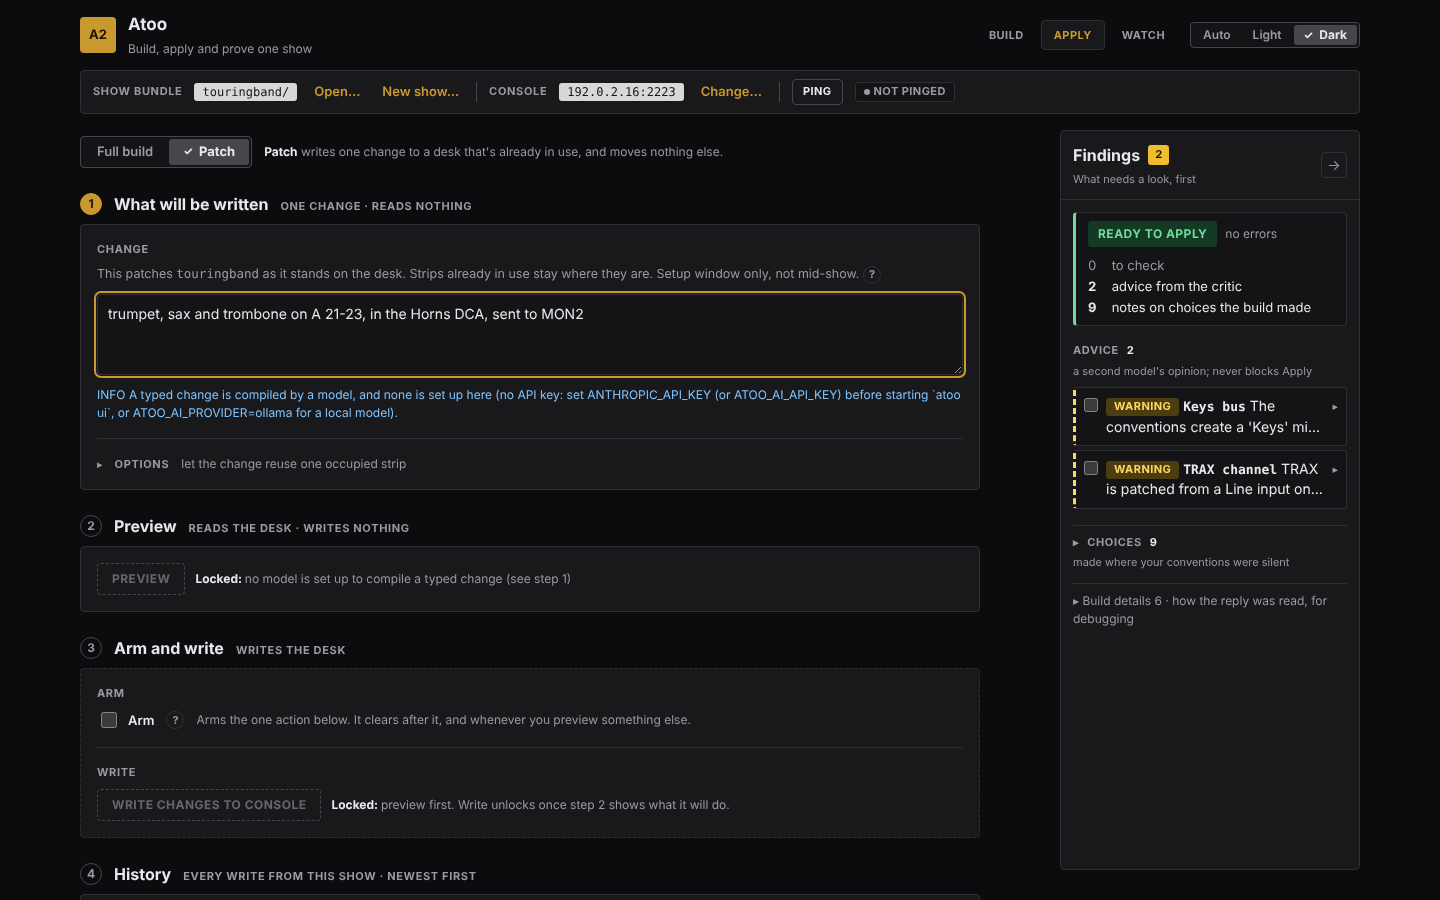
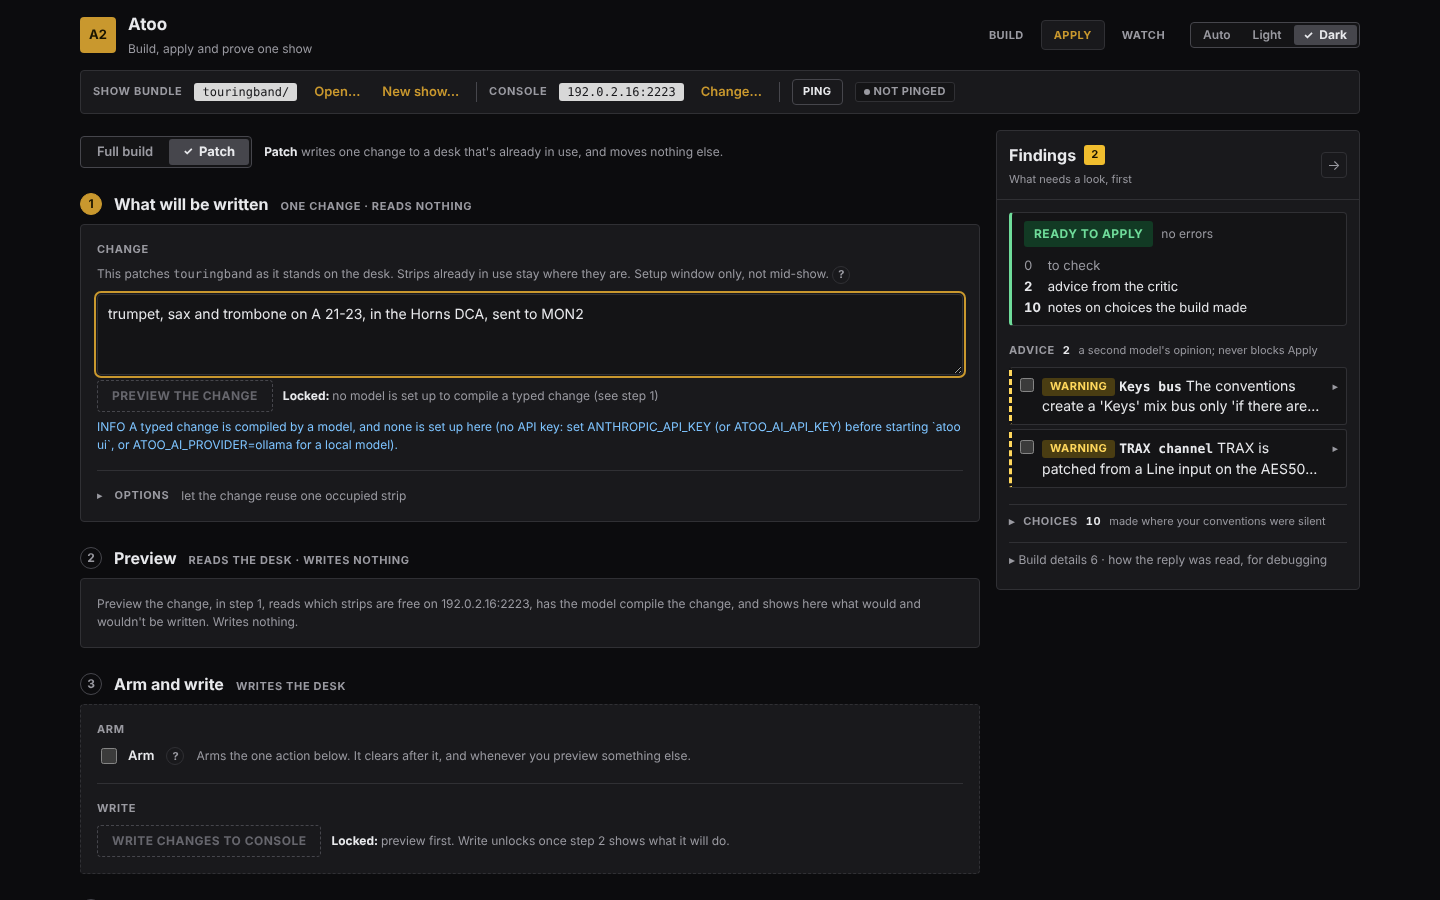
Docs: refresh the user guide

diff --git a/docs/user/patch.md b/docs/user/patch.md
@@ -40,6 +40,16 @@ atoo patch --show starter/demo-show --change-set docs/user/demo/demo-show/horns.
 
 Change: Add Trumpet, Sax and Trombone on LCL 21-23
   INFO preset library: starter/presets -- the library the plan on the desk was built with (its strips' preset values record it)
+
+What this change does on the desk:
+  added channel 'Trumpet' -> ch:14
+  added channel 'Sax' -> ch:15
+  added channel 'Trombone' -> ch:16
+  added bus 'Horns' -> bus:8
+
+379 address(es) will be written.
+
+Details:
 48 strip(s) read over 206 address(es): 14 ours, 0 theirs, 34 free, 0 unknown
   this read asked each strip for its name, its link-to-source flag and its input patch, and asked every patched socket for ITS name -- which on a WING is where a name somebody typed actually lives. It did not ask what anything is routed to, so a strip that is routed somewhere but neither named nor patched reads as free here. `atoo audit` asks the rest.
 
@@ -67,6 +77,8 @@ Change: Add Trumpet, Sax and Trombone on LCL 21-23
 Pre-flight verify of the changed plan against the WING Compact the plan is for (reviewed offline: no desk was asked): no findings.
   ...
 ```
+
+The review leads with **What this change does on the desk**: one line for each object the change adds, drops, moves or edits, in words, each object once. An output's or a bus's sockets are said whole, before and after, with what goes off named (*"output 'Matrix 1': out on LCL 7-8, AES50-A 1-2 -> LCL 7-8 (AES50-A 1-2 off)"*). Then how many addresses will be written, and, when the change moves audio on something already running, one `!!` line that says so. Everything else follows under **Details:**: what was read off the desk, each object's verdict, the fields old -> new, the notes, the addresses, and the pre-flight.
 
 The pre-flight reads the show's `input.csv`, so the check that every input became a channel, that phantom power is safe for the microphones and that the list's stated sockets and presets match runs on the changed plan, and the INFO line says what it was checked against. A change is not a rebuild, so it is held to the list differently from a full build: the channels it adds (and any that an earlier change added) are not on the list and are not called invented, a row the plan has no channel for is not called dropped, and a socket the change states for a channel stands over the one the list states. A show with no `input.csv` still gets the `reconcile.not-checked` warning.
 
@@ -223,6 +235,23 @@ atoo patch --show starter/demo-show --change-set docs/user/demo/demo-show/clear-
 
 Change: Clear 5 and 6, add stereo IEM
   INFO preset library: starter/presets -- the library the plan on the desk was built with (its strips' preset values record it)
+
+What this change does on the desk:
+  returned to free bus 'Drums' -> bus:5
+  returned to free bus 'Vocals' -> bus:6
+  added bus 'IEM' -> bus:5
+  channel 'Kick': bus_sends: Drums removed
+  channel 'Snare': bus_sends: Drums removed
+  channel 'Rack Tom': bus_sends: Drums removed
+  channel 'Floor Tom': bus_sends: Drums removed
+  channel 'OH': bus_sends: Drums removed
+  channel 'Lead Vox': bus_sends: Vocals removed
+  channel 'BV Gtr': bus_sends: Vocals removed
+  channel 'BV Keys': bus_sends: Vocals removed
+
+342 address(es) will be written.
+
+Details:
 48 strip(s) read over 206 address(es): 14 ours, 0 theirs, 34 free, 0 unknown
   this read asked each strip for its name, its link-to-source flag and its input patch, and asked every patched socket for ITS name -- which on a WING is where a name somebody typed actually lives. It did not ask what anything is routed to, so a strip that is routed somewhere but neither named nor patched reads as free here. `atoo audit` asks the rest.
   ...
@@ -240,7 +269,7 @@ The review's lines for the buses (the summary's first lines, then the INFOs that
   INFO bus 'IEM' is new, put on bus 5 as the change said -- the bus this change returns to free
 ```
 
-Below what is shown, eight `EDITED` lines name the channels whose send into bus 5 or 6 is taken away (`bus_sends: Drums removed`). Nothing here asks the model; whether a given model words *"clear bus 5"* as a drop is the model's part, and the review above is what it is checked against before anything is written.
+The summary at the top names the eight channels whose send into bus 5 or 6 is taken away (`bus_sends: Drums removed`). Nothing here asks the model; whether a given model words *"clear bus 5"* as a drop is the model's part, and the review above is what it is checked against before anything is written.
 
 ## Clearing a DCA, a mute group or an output
 
@@ -263,6 +292,16 @@ atoo patch --show starter/demo-show --change-set docs/user/demo/demo-show/clear-
 
 Change: Drop FX groups, add Horns DCA
   INFO preset library: starter/presets -- the library the plan on the desk was built with (its strips' preset values record it)
+
+What this change does on the desk:
+  returned to free dca 'FX' -> dca:5
+  returned to free mute group 'FX' -> mgrp:3
+  added dca 'Horns' -> dca:5
+  bus 'Vox Verb': dca FX -> none; mute_group FX -> none
+
+10 address(es) will be written.
+
+Details:
 48 strip(s) read over 206 address(es): 14 ours, 0 theirs, 34 free, 0 unknown
   this read asked each strip for its name, its link-to-source flag and its input patch, and asked every patched socket for ITS name -- which on a WING is where a name somebody typed actually lives. It did not ask what anything is routed to, so a strip that is routed somewhere but neither named nor patched reads as free here. `atoo audit` asks the rest.
 
@@ -272,12 +311,12 @@ Change: Drop FX groups, add Horns DCA
   ADDED            dca 'Horns' -> dca:5: new dca
   EDITED           bus 'Vox Verb': only the field(s) the change names are written (dca, mute_group); nothing else on this bus is touched, and the rest of it is in the untouched proof
   fields changed on objects already on the desk (only these; nothing else on them is written):
-    bus 'Vox Verb': dca ["FX"] -> []
-    bus 'Vox Verb': mute_group ["FX"] -> []
+    bus 'Vox Verb': dca FX -> none
+    bus 'Vox Verb': mute_group FX -> none
   ...
 ```
 
-Below what is shown, the `EDITED` line names the Vox Verb bus, the one member of both FX groups, so it is the one strip edited: its tags go to none.
+The summary's last line, and the `EDITED` line under Details, name the Vox Verb bus, the one member of both FX groups, so it is the one strip edited: its tags go to none.
 
 ## Inserting a channel, and renumbering the strips after it
 
@@ -345,17 +384,21 @@ A change may also change something **already on the desk** — *"move the sax to
   ```
   REFUSED          channel 'Snare' -> ch:2: the change edits it, and 'Royer R-121' is a passive ribbon microphone and the change leaves it with phantom power on -- 48V destroys a ribbon element and switching it off again does not undo the damage; set source.phantom false in the same change -- refused rather than half-written
   ```
-- **The review shows old -> new for every field**, as an `EDITED` line, in the "fields changed" block of the summary, and at INFO: `ch:9: the change edits bus_sends: MON3 level -144 -> -10.0`.
+- **The review says each edited object once, in words**, at the top (`channel 'T.Sax SM57': bus_sends: MON3 level -144 -> -10.0`), and under Details each field old -> new, as an `EDITED` line and in the "fields changed" block.
 - **A fader moves only when the change says "fader"** (and a mute only when it says "mute" — "mute group" is a membership, not the mute). A fader the model set anyway is shown as `MODIFIED`, not written.
-- **A repatch of a running strip moves audio the moment it is written**, so it is said first, on its own (from Atoo's test desk and a stubbed model):
+- **A repatch of a running strip moves audio the moment it is written**, so it is said at the top, once, under the line that says what changes (from Atoo's test desk and a stubbed model):
 
   ```
-  !! 1 PATCH CHANGE(S) ON SOMETHING ALREADY RUNNING -- these move audio the moment they are written:
-  !!   MOVES AUDIO LIVE -- channel 'BassDI' on ch:7: patch A 6 -> A 30
+  What this change does on the desk:
+    channel 'BassDI': patch A 6 -> A 30
+
+  5 address(es) will be written.
+  !! It moves audio on channel 'BassDI', already running, the moment it is written: check what is plugged in where before you arm it.
   ```
 
   The new socket's own name, color, phantom and gain are written with it — unless another strip on the desk uses that socket, when they are that strip's and are left alone, with a note. The old socket keeps its name.
-- **Taking something away is written as off**: a send the change removes is switched off, a high-pass it removes is switched off, and a strip that leaves every DCA and mute group has those tags cleared (other tags kept).
+- **Taking something away is written as off**: a send the change removes is switched off, a high-pass it removes is switched off, and a strip that leaves every DCA and mute group has those tags cleared (other tags kept). An output socket taken off a bus, a Main or a Matrix (*"remove all the AES50-A outputs"*) is switched off on the desk, its source set to OFF (never back to a local output's factory feed from the Main); the object's other sockets stay as they are, and an object left with none stays, with no output.
+- **A change that only removes adds nothing.** Typed as a removal (*"remove"*, *"delete"*, *"clear"*, *"unpatch"*, *"disconnect"*, *"take off"*), with no word that puts something somewhere, it keeps no socket the object did not already have: one the model added is left off, and an INFO says which. An object that went out on two places keeps the other one: that is not a new socket.
 - **An edit that would rewrite another object is refused.** Patching a running strip onto a socket another running strip uses turns that other strip's source link off too — and that strip is not named, so the change is refused.
 - **Undo puts every edited field back**: the journal records each address's value before the write, as it does for every write.
 
@@ -372,6 +415,13 @@ atoo patch --show starter/demo-show --change-set docs/user/demo/demo-show/snare-
 
 Change: Snare Verb on the Vox Verb bus
   INFO preset library: starter/presets -- the library the plan on the desk was built with (its strips' preset values record it)
+
+What this change does on the desk:
+  bus 'Vox Verb': preset Vox Verb -> Snare Verb
+
+12 address(es) will be written.
+
+Details:
 48 strip(s) read over 206 address(es): 14 ours, 0 theirs, 34 free, 0 unknown
   this read asked each strip for its name, its link-to-source flag and its input patch, and asked every patched socket for ITS name -- which on a WING is where a name somebody typed actually lives. It did not ask what anything is routed to, so a strip that is routed somewhere but neither named nor patched reads as free here. `atoo audit` asks the rest.
 
@@ -385,7 +435,6 @@ Change: Snare Verb on the Vox Verb bus
   INFO bus 'Vox Verb': FX8 was judged free from the plan on the desk alone -- the occupancy read covers strips, not FX engines
   INFO bus 'Vox Verb': preset "Vox Verb" -> "Snare Verb" -- no console address carries it, so nothing is written to the desk for it; it is kept (in the plan the journal entry holds) only when the same change writes something else
   INFO bus 'Vox Verb': FX5 is no longer inserted on it; it keeps the old preset's effect and its values, inserted nowhere, as the desk has it
-  INFO bus 'Vox Verb': the change edits preset "Vox Verb" -> "Snare Verb"; preset_values {"preset": "Vox Verb", "file": "FX Vox Verb.bus", "library": "starter/presets", "sha256": "2e283e8906b0bd3a7723e450f4... -> {"preset": "Snare Verb", "file": "FX Snare Verb.bus", "library": "starter/presets", "sha256": "bf3c8a07f670470940c6ac...
 
 12 address(es) will be written; 1613 belonging to objects this amend does not own will NOT be.
   12 of them CHANGE A RUNNING OBJECT -- only the fields the change names:

diff --git a/docs/user/patch-a-show.md b/docs/user/patch-a-show.md
@@ -16,9 +16,9 @@ Patch shares Apply's four numbered steps: **What will be written**, **Preview**,
    > trumpet, sax and trombone on A 21-23, in the Horns DCA, sent to MON2
 
    Leave a socket out and one is chosen for you, and the review says which.
-3. Press **Preview**, in step 2. Until a change is typed it is locked, and **Locked:** beside it says what it is waiting for.
+3. Press **Preview the change**, under the box (or Ctrl+Enter, ⌘+Enter on a Mac). Until a change is typed it is locked, and **Locked:** beside it says what it is waiting for. In Patch mode, step 2 has no button of its own: it is where the preview shows.
 
-![Apply in Patch mode: the change box in step 1, Preview in step 2](img/patch-screen.png)
+![Apply in Patch mode: the change box in step 1, with its own Preview the change button](img/patch-screen.png)
 
 It reads which strips on the desk are free, and each strip's name and color (a few seconds), sends your words, the plan on the desk and your conventions to the model, and shows progress while it works. It writes nothing.
 
@@ -33,13 +33,15 @@ Under the drawing, **Will be written** lists every change in groups:
 | **Added** | a new channel, going into a free strip |
 | **Returned to free** | a dropped channel's strip, cleared back to unused |
 | **Moved down by the insert** | a running channel that an *insert* ("insert HiHat after Snare and renumber the channels after it") moves to the next strip down: one line for every strip that moves, each rewritten whole on its new number. Undo puts them all back. Without those words, *"add HiHat after Snare"* moves nothing, and a note gives the words that would. See [Inserting a channel](patch.md#inserting-a-channel-and-renumbering-the-strips-after-it) |
-| **Edited: named fields only** | something already running, changed only in the fields you named (*"HPF 100 on the vocals"*), listed old → new |
+| **Edited: named fields only** | something already running, changed only in the fields you named (*"HPF 100 on the vocals"*), one line each, in words, old → new. Where it goes out is said whole, with what goes off named: *output 'Matrix 1': out on LCL 7-8, AES50-A 1-2 -> LCL 7-8 (AES50-A 1-2 off)* |
 | **Modified, not written** | something running that the change did not name field by field, or a fader it did not name; left alone |
 | **Refused** | a change that names something not on the desk, or has no free strip, or patches a socket past the end of the stage box on an AES50 port (`A 17` on an S16: the pre-flight panel names the box and its size) |
 
 A new channel or bus that your conventions give a preset takes it from the preset library the show was built with, so the horns arrive with their presets and a new Horns bus with its compressor; the notes under the review say which library was used and which preset went where. A "sax" with no kind named takes the alto sax preset, and the notes say so. If no library can be found at all, the first line of the notes is a WARNING naming the presets that will be written without their values.
 
-Then a count of what will be written and what will **not** be. If it is not what you meant, change the words and press **Preview** again. Until you do, step 2 says the preview is out of date and the write stays locked. While the preview still matches your words, the button reads **Preview again**.
+Then a count of what will be written and what will **not** be. If it is not what you meant, change the words and press **Preview the change** again. Until you do, step 2 says the preview is out of date and the write stays locked. While the preview still matches your words, the button reads **Preview again**.
+
+Taking something away is written too: *"remove all the AES50-A outputs"* switches those output sockets off on the desk, and a change typed only as a removal never adds a socket the object did not have ([Editing what is already running](patch.md#editing-what-is-already-running)).
 
 ## 3. Write it
 

diff --git a/docs/user/troubleshooting-ui.md b/docs/user/troubleshooting-ui.md
@@ -79,7 +79,7 @@ A locked button has no color and a dashed edge. **Locked:** beside it says why, 
 - **Writing is switched off in the Demo show.** The Demo is read-only, on a simulated desk: Preview works, writing and Undo never do. Choosing a console address in the bar (**Change…**, then **Address**) leaves the Demo; then open or create a show of your own.
 - **No console address**, or **No show bundle open**: set the one it names in the bar.
 - **Nothing to undo on this desk**: History has no write standing on the console in the bar.
-- **Preview first**, or **Step 1 or the console changed since the preview**: press **Preview** in step 2 again.
+- **Preview first**, or **Step 1 or the console changed since the preview**: press **Preview** in step 2 again (in Patch mode, **Preview the change**, under the change box).
 - **The pre-flight verify has N error(s)**: fix the plan on **Build** and rebuild, or, if you know why, tick **Skip the pre-flight verify** under **Options** in step 1.
 - **Tick Arm first**: the **Arm** checkbox in step 3. It clears itself after each write, and Undo needs it too.
 - **Preview the undo first**, or **Preview the undo again**: Undo is only offered for an undo you have just previewed. Press **Preview undo** on the newest row of History; do it again if a write, an undo, the console or the newest row has changed since.
